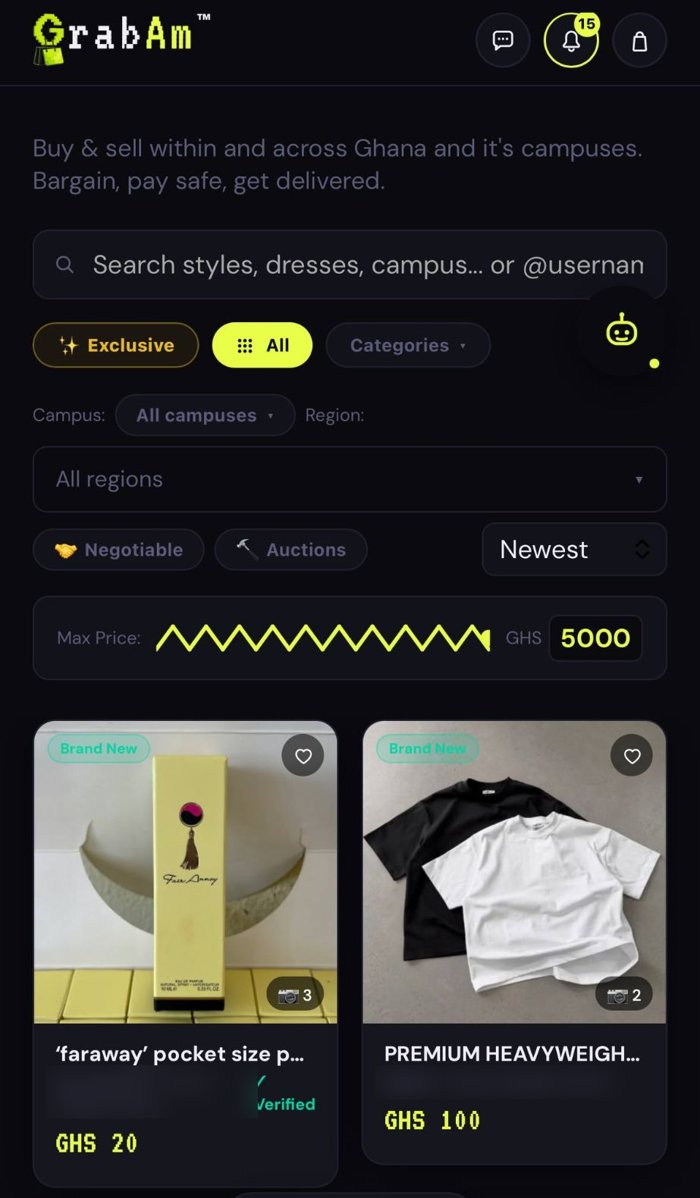
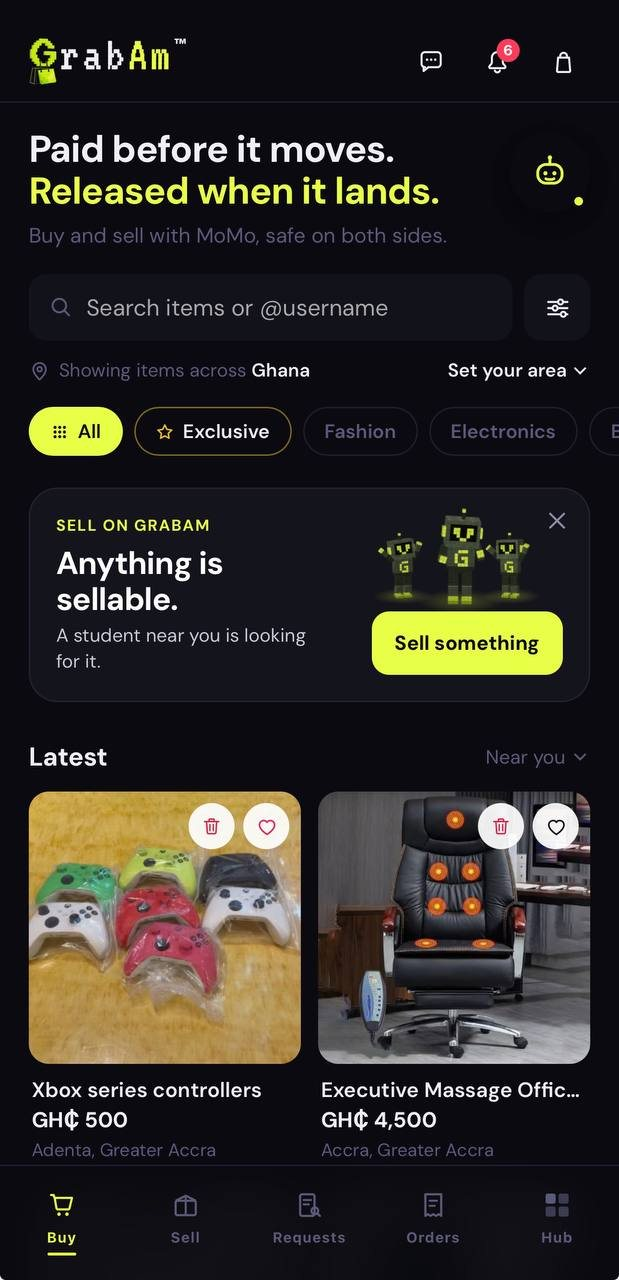
Current GrabAm screenshots, app.grabam.com link, no image glow
Claude-Session: https://claude.ai/code/session_01XcqgL5Wm79WoSAfQBZmgBv

diff --git a/index.html b/index.html
@@ -91,11 +91,11 @@ h2{font-family:"Space Grotesk";font-size:clamp(32px,4.4vw,52px);letter-spacing:-
 .vlink{display:inline-block;margin-top:26px;font-weight:600;border-bottom:1px solid var(--t3);padding-bottom:2px;text-decoration:none;margin-right:22px}
 .vlink:hover{border-color:var(--t)}
 .art{position:relative;min-height:420px;display:flex;align-items:flex-end;justify-content:center;gap:18px;padding:40px 30px 0}
-.venture.gr .art{flex-direction:column;align-items:center;justify-content:center;gap:14px;padding:40px 32px;background:radial-gradient(70% 60% at 55% 55%,rgba(232,255,72,.16),transparent 70%)}
+.venture.gr .art{flex-direction:column;align-items:center;justify-content:center;gap:14px;padding:40px 32px}
 .phones{display:flex;gap:16px;align-items:flex-start;justify-content:center;width:100%}
 .phones img{width:48%;max-width:250px;height:auto;border-radius:18px;border:1px solid #2d2c36;box-shadow:0 24px 60px rgba(0,0,0,.55);display:block}
 .phones img+img{margin-top:56px}
-.venture.si .art{align-items:center;background:radial-gradient(60% 60% at 50% 50%,rgba(224,114,108,.18),transparent 70%)}
+.venture.si .art{align-items:center}
 .venture.si .art img{width:58%;max-width:300px;height:auto;display:block}
 .cap{font-size:12px;color:var(--t3);text-align:center}
 
@@ -186,11 +186,11 @@ footer{padding:40px 0 60px;display:flex;justify-content:space-between;flex-wrap:
         <li><b>Grabby Bot,</b> an AI shopping assistant that answers from the platform's own policies and data</li>
         <li><b>How:</b> AI-assisted development. I own the architecture, the compliance decisions, and the review and testing of every change</li>
       </ul>
-      <a class="vlink" href="https://grabam.com" rel="noopener">grabam.com ↗</a><a class="vlink" href="https://trade.grabam.com" rel="noopener">trade.grabam.com ↗</a>
+      <a class="vlink" href="https://app.grabam.com" rel="noopener">app.grabam.com ↗</a><a class="vlink" href="https://app.grabam.com/trade" rel="noopener">GrabAm Trade ↗</a><a class="vlink" href="https://grabam.com" rel="noopener">grabam.com ↗</a>
     </div>
     <div class="art">
-      <div class="phones"><img src="assets/grabam-buy.jpg" alt="GrabAm marketplace Buy screen" width="700" height="1198"><img src="assets/grabam-trade.jpg" alt="GrabAm Trade home screen" width="700" height="959"></div>
-      <span class="cap">Other users' names blurred.</span>
+      <div class="phones"><img src="assets/grabam-buy.jpg" alt="GrabAm marketplace Buy screen" width="619" height="1280"><img src="assets/grabam-trade.jpg" alt="GrabAm Trade home screen" width="623" height="1280"></div>
+      <span class="cap">Marketplace and GrabAm Trade, November 2026.</span>
     </div>
   </article>
 
